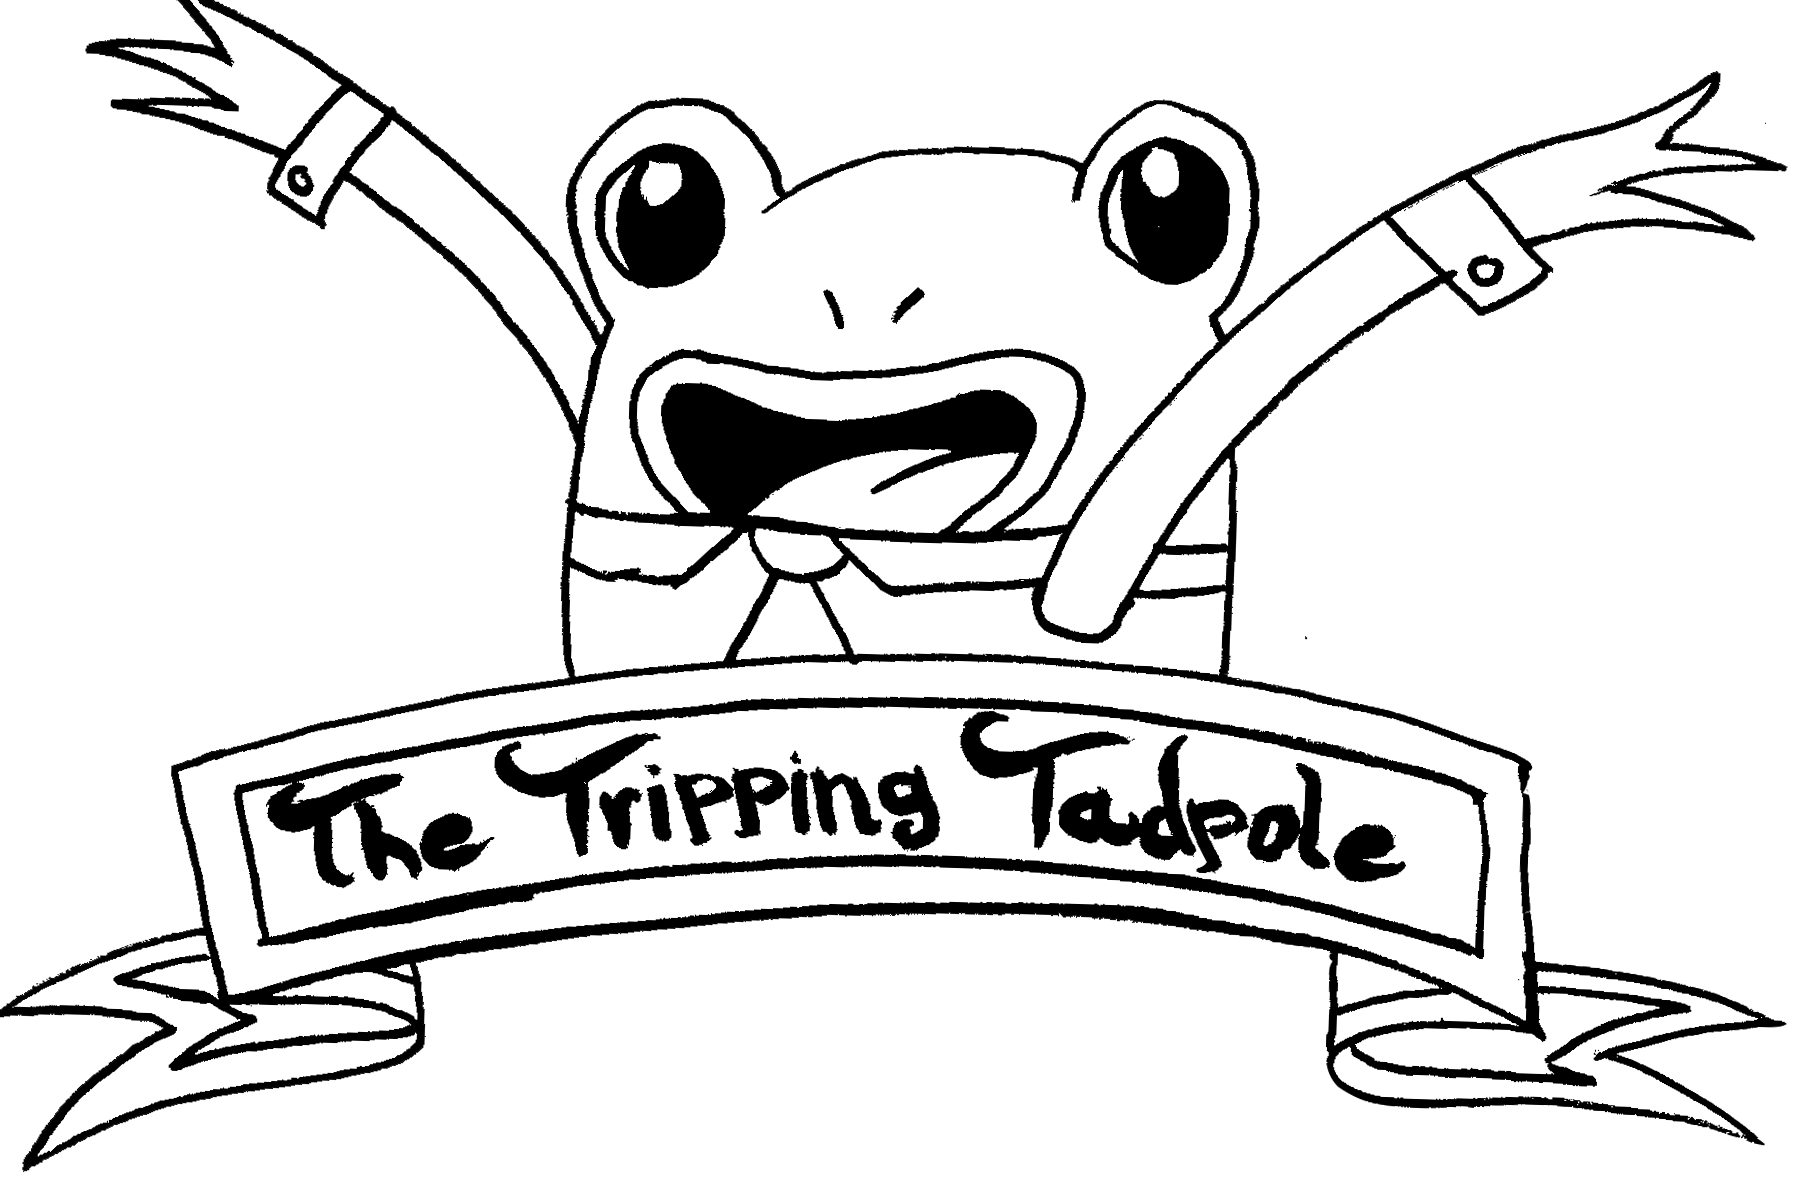
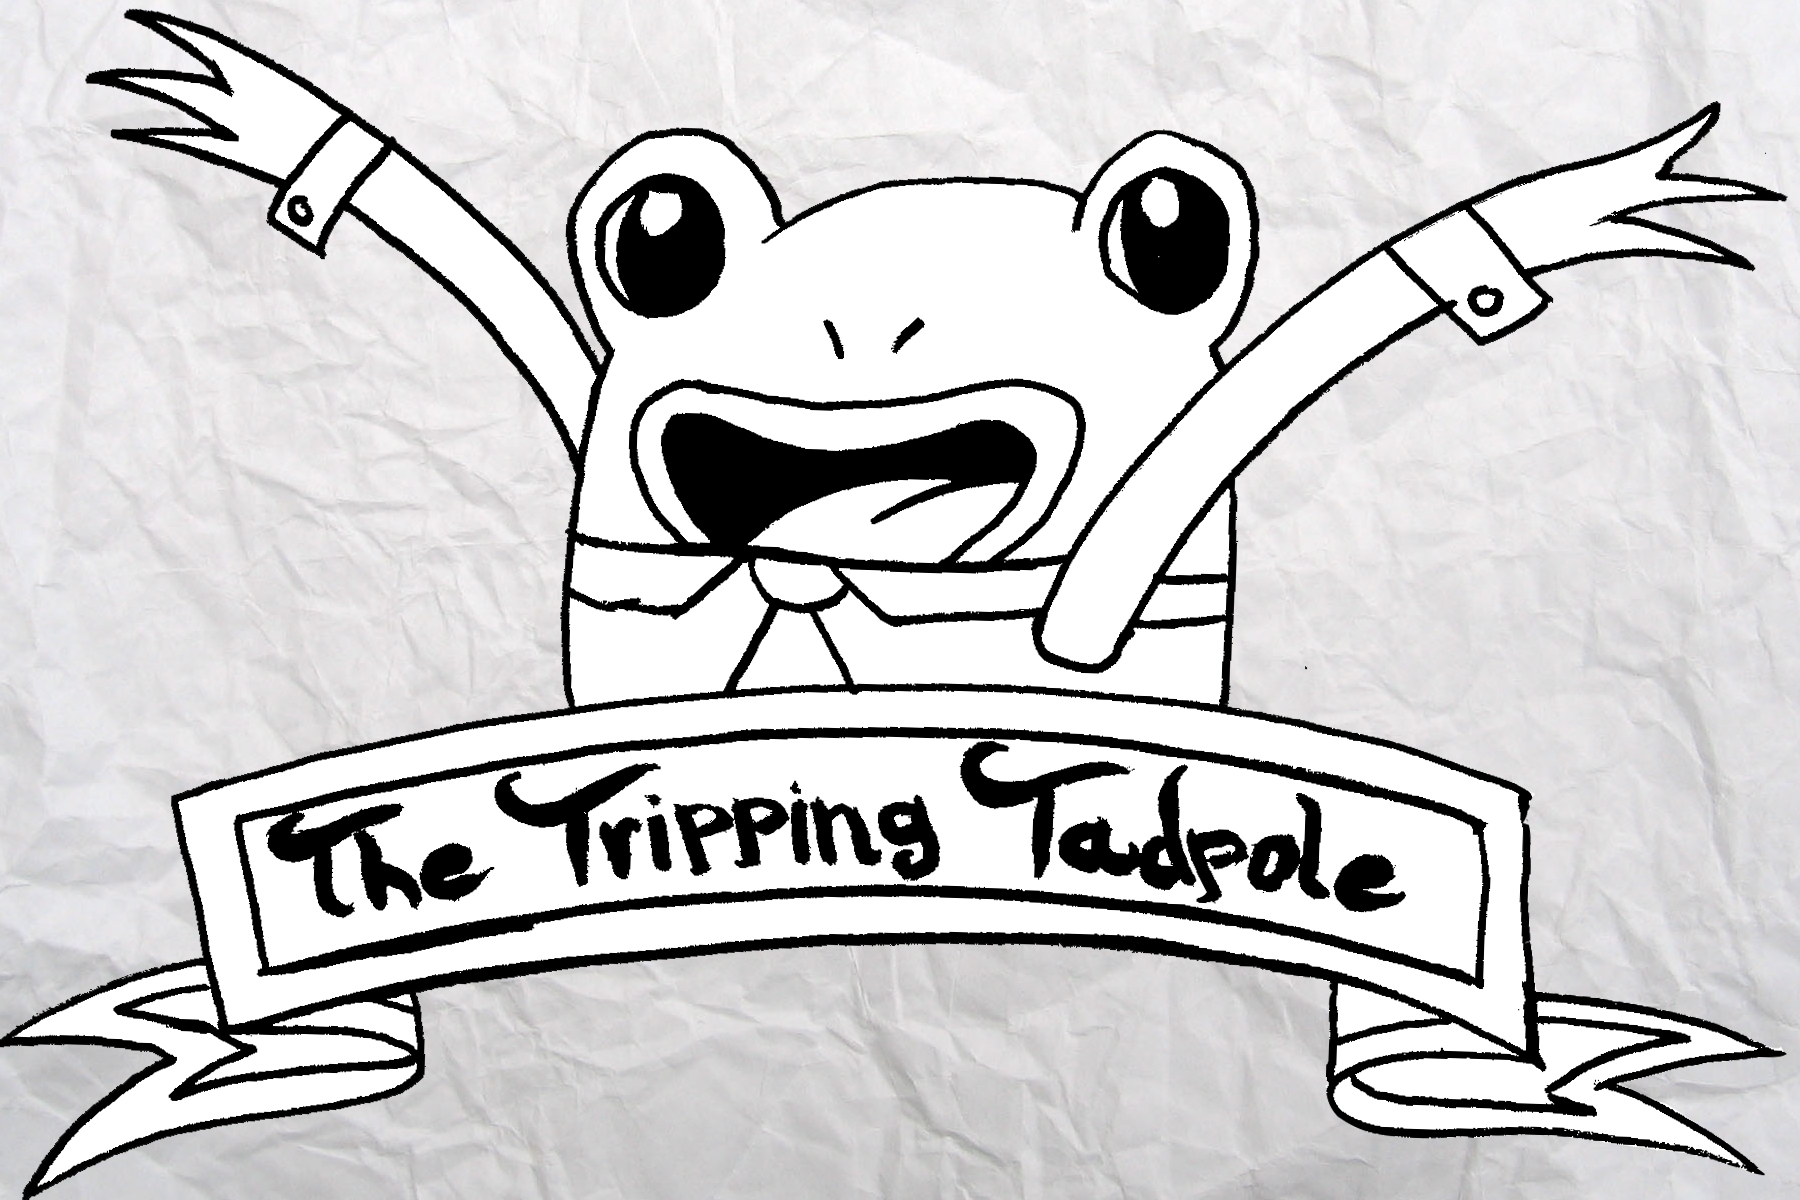
added some js
js not working

diff --git a/js/app.js b/js/app.js
@@ -1,72 +1,23 @@
 $(document).foundation()
 
 var rin = document.getElementById("rin");
+var ladyRat = document.getElementById("ladyRat")
+var icon = document.getElementById("icon");
+
+
 window.onscroll = function(){
-  var y = window.pageXOffset;
-  if(y>1000){
-    rin.style.left = 200 + x;
-
-  }
-
-}
-window.onscroll = function(){
-
 
   var y = window.pageYOffset;
 
-  console.log(y);
+ladyRat.style.top = 200 + y  + "px";
 
-  counter.style.left = 100 + x * 0.97 + "px";
+  if(y > 100){
 
-  counter.innerHTML = x + "px";
-
-  if (x > 2000) {
-    counter.style.backgroundColor = "green";
-  }else{
-    counter.style.backgroundColor = "blue";}
-
-    icon.style.top = 200 + x  + "px";
-
-  if(x > 30){
-
-      icon.src="https://2.bp.blogspot.com/-MTmoGMeE2cc/WSGIutFSHoI/AAAAAAAAK6o/Ya-tX6NvAqUM2LqV4VlxzsfwzD8xXEPFACLcB/s1600/254___thumbs-up-emoji.png";
+      ladyRat.src="../images/ladyratHouse_open.png";
 
   }else{
 
-  icon.src="https://1.bp.blogspot.com/-jnt2C7f2HH8/WSGIun5uhGI/AAAAAAAAK6s/A1R4fUrtMUsQtEbKqopa2xTWqaEtxClogCLcB/s1600/256___come-to-fight-emoji.png";
+      ladyRat.src="../images/ladyratHouse_closed.png";
  }
 
 };
-// var body = document.getElementById("body");
-// var counterY = document.getElementById("counterY");
-// var counterX = document.getElementById("counterX");
-// var icon = document.getElementById("icon");
-//
-// window.onscroll = function(){
-//
-//
-//   var y = window.pageYOffset;
-//
-//   console.log(y);
-//
-//   counter.style.top = 400 + y * .97 + "px";
-//
-//   counterY.innerHTML = y + "px";
-//
-//   if (y > 2000) {
-//     counterY.style.backgroundColor = "green";
-//   }else{
-//     counterY.style.backgroundColor = "blue";}
-//
-//     icon.style.top = 200 + y  + "px";
-
-//   if(y > 2000){
-//
-//       icon.src="https://2.bp.blogspot.com/-MTmoGMeE2cc/WSGIutFSHoI/AAAAAAAAK6o/Ya-tX6NvAqUM2LqV4VlxzsfwzD8xXEPFACLcB/s1600/254___thumbs-up-emoji.png";
-//
-//   }else{
-//
-//   icon.src="https://1.bp.blogspot.com/-jnt2C7f2HH8/WSGIun5uhGI/AAAAAAAAK6s/A1R4fUrtMUsQtEbKqopa2xTWqaEtxClogCLcB/s1600/256___come-to-fight-emoji.png";
-//  }
-//
-// };

diff --git a/index.html b/index.html
@@ -6,24 +6,34 @@
     <meta name="viewport" content="width=device-width, initial-scale=1.0">
     <title>Home Page</title>
     <link rel="stylesheet" href="css/app.css">
-    <!-- <link re="stylesheet" href="css/foundation.css"> -->
+    <link re="stylesheet" href="css/foundation.css">
   </head>
   <body>
 <div id="background">
 
   <div>
-  <img src="images/rinrin.jpg" id="heading">
+  <img src="images/heading.png" id="heading">
     </div>
 
 
 <!-- sticky image of rin -->
-<img src="images/rin.jpg" id="rin">
 
+p<img src="images/rock.png" id="icon">
 <!-- mushroom house -->
-<img src="images/house.png" id="house1">
-<!-- <img src="images/house.png" id="house2"> -->
+<img src="images/shroomHouse.png" id="shroom">
+<!-- mom frog -->
+<img src="images/frogMom.png" id="mom">
 
-<img src="images/steps.png" id="steps">
+<!-- mouse friend -->
+<img src="images/mouse.png" id="mouse">
+
+<!-- back of rin -->
+<img src="images/Rinback.png" id="backOfRin" alt="backside of rin">
+
+<!-- lady rat house (closed) -->
+<img src="images/ladyratHouse_closed.png" id="ladyRat">
+<!-- lady rat house (open) -->
+<!-- <img src="images/ladyratHouse_open.png" id="ladyRat2"> -->
 
 
 

diff --git a/css/app.css b/css/app.css
@@ -1,47 +1,44 @@
 #background{
-  background-color: lightblue;
   border:2px solid red;
   width:768px;
   height:10000px;
   margin:0 auto;
   position:relative;
+  /*background-image:url("../images/paper.png");*/
 
 }
 #heading{
 width:768px;
 height:500px;
 position:absolute;
-z-index:3;
+z-index:10;
 }
-#rin{
-width:80px;
-height:150px;
-  position:relative;
-  top:700px;
-  left: 0px;
-  z-index:2;
+
+
+/*tripping rin..runs across screen*/
+
+#rinrin{
+
 }
-#house1{
-  width:400px;
+#shroom{
+  width:250px;
   height:300px;
 position:absolute;
 z-index:3;
 top:700px;
-left:-100px;
-}
-/*#house2{
-  width:400px;
-  height:300px;
-position:relative;
-z-index:1;
-top:700px;
 left:0px;
-}*/
-#steps{
-  width:100px;
-  height:50px;
+}
+
+
+#ladyRat{
   position:absolute;
-  top:990px;
-  left:300px;
-  z-index:1;
+  left:100px;
+  top:1200px;
+}
+/*/////test*/
+#icon {width:300px;
+  border:1px solid black;
+  position:absolute;
+  top:1500px;
+  left:50px;
 }
